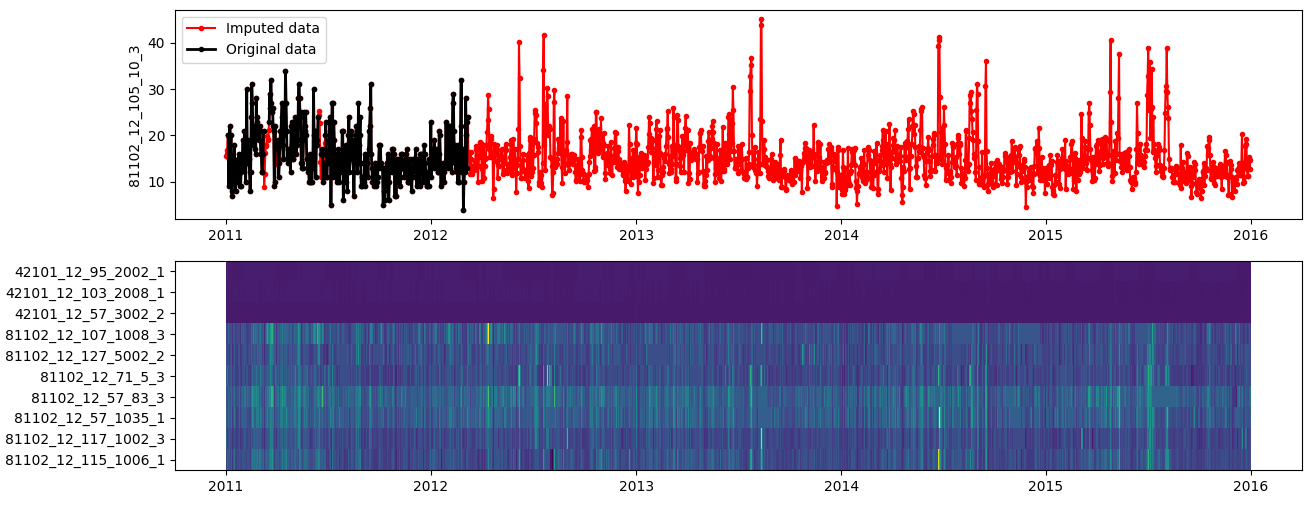
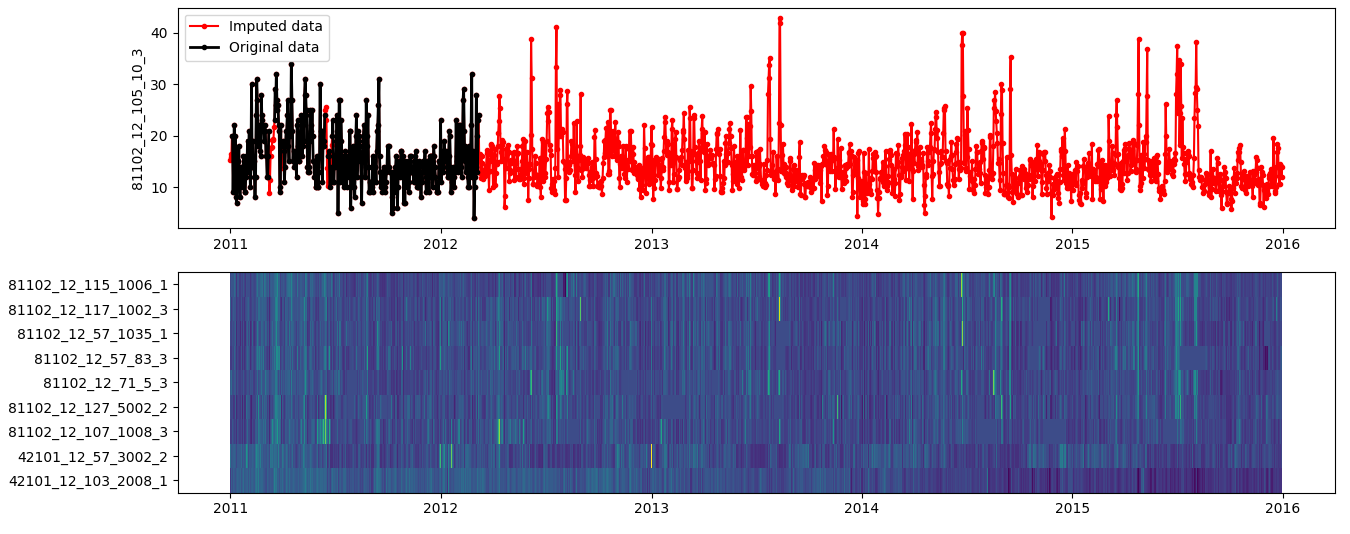
normalize station data

Changed region(s): [[0.0, 0.503, 0.9977, 0.9763], [0.0935, 0.0, 0.9977, 0.4734], [0.6859, 0.0592, 0.7171, 0.1479]]

diff --git a/AQ_ML.py b/AQ_ML.py
@@ -15,8 +15,12 @@ R_earth =  6371.0 # [km]
 def matshow_dates(df,ax):
     import matplotlib.dates as mdates
     xlims = [mdates.date2num(pd.to_datetime(df.index[x])) for x in[0,-1]]
+    #from sklearn.preprocessing import scale
+    #ax.matshow(scale(df.copy().transpose(),axis=1),aspect='auto',extent=[xlims[0],xlims[1],len(df.columns),0],origin='upper')
     ax.matshow(df.copy().transpose(),aspect='auto',extent=[xlims[0],xlims[1],len(df.columns),0],origin='upper')
+    #tick_labels = ['Predictor '+str(i) for i in range(len(df.columns))]
     ax.set_yticklabels(df.columns.values)
+    #ax.set_yticklabels(tick_labels)
     ax.set_yticks([x+0.5 for x in range(0,len(df.columns.values))])
     ax.xaxis.tick_bottom()
     ax.xaxis_date()
@@ -77,6 +81,11 @@ class aq_station:
             self.this_station = pd.Series()
             print('No data for this station!')
         self.nearby_data_df = self.nearby_data_df.drop(self.station_id, axis=1) # get rid of the closest data: this is the target data, not used in training
+        nearby_yesterday = self.nearby_data_df.copy()
+        nearby_yesterday.index = nearby_yesterday.index + pd.Timedelta('1D')
+        nearby_yesterday = nearby_yesterday.reindex(index=self.nearby_data_df.index)
+        nearby_yesterday.columns = [x+'_y' for x in nearby_yesterday.columns]
+        #self.nearby_data_df = pd.concat([self.nearby_data_df,nearby_yesterday],axis=1)
         
         # get the data for the other stations
         self.other_stations = identify_nearby_stations(self.latlon,r_max,other_data,self.start_date,self.end_date)
@@ -86,6 +95,11 @@ class aq_station:
             print('   Removing stations with latitude '+str(self.ignoring[0]))
             self.other_stations = self.other_stations[self.other_stations['Latitude']!=self.ignoring[0]].copy()
         self.other_data_df = extract_nearby_values(self.other_stations,other_data,self.start_date,self.end_date)
+        other_yesterday = self.other_data_df.copy()
+        other_yesterday.index = other_yesterday.index + pd.Timedelta('1D')
+        other_yesterday = other_yesterday.reindex(index=self.other_data_df.index)
+        other_yesterday.columns = [x+'_y' for x in other_yesterday.columns]
+        #self.other_data_df = pd.concat([self.other_data_df,other_yesterday],axis=1)
         
     def plot_matrix_station(self):
         
@@ -93,6 +107,8 @@ class aq_station:
         import datetime as dt
                 
         fig = plt.figure(figsize=(12,6))
+        if self.gs.empty:
+            return fig
 
         ax1 = fig.add_subplot(211)
         
@@ -102,6 +118,7 @@ class aq_station:
         ax1.plot(self.composite_data,'.-',color='red',label='Imputed data')
         ax1.plot(self.this_station,'.-',lw=2,color='k',label='Original data')
         ax1.set_ylabel(self.this_station.name)
+        #ax1.set_ylabel('Output station')
         ax1.legend()
         
         plt.show()
@@ -119,7 +136,7 @@ class aq_station:
             self.model = None
             return
             
-        # fill missing predictors
+        # fill missing predictors and normalize the inputs
         self.gs = fill_missing_predictors(self.gs)
         
         # create a model
@@ -318,7 +335,7 @@ def feature_selection(df,this_station,stations_to_keep=None):
     
     # choose how many stations to keep based on how many samples there will be to train on
     if stations_to_keep is None:
-        stations_to_keep = min(15,max(1,int(len(this_station.index[pd.notnull(this_station)])/8)))
+        stations_to_keep = min(15,max(1,int(len(this_station.index[pd.notnull(this_station)])/12)))
     
     corr_vals = pd.Series(index=good_stations.columns)
     for station in corr_vals.index:
@@ -341,9 +358,13 @@ def fill_missing_predictors(predictors):
         
     import sklearn.preprocessing
     imp = sklearn.preprocessing.Imputer(missing_values='NaN', strategy='mean', axis=0) # impute along columns
-    predictors_filled = imp.fit_transform(predictors).copy()
+    predictors_filled = imp.fit_transform(predictors.copy())
     predictors_filled_df = pd.DataFrame(index=predictors.index,columns=predictors.columns,data=predictors_filled)
-        
+    
+    
+    from scipy.stats import zscore
+    predictors_filled_df = predictors_filled_df.apply(zscore)
+
     return predictors_filled_df
     
 # based on which values for the site are available, split up predictors/known
@@ -367,7 +388,9 @@ def create_model_for_site(predictors,site):
     
     from sklearn.metrics import r2_score
     
+    
     print('Creating a model for '+str(site.name))
+    
     
     # split into known/unknown datapoints
     known_x,known_y,unknown_x = split_known_unknown_rows(predictors,site)
@@ -401,8 +424,8 @@ def create_model_for_site(predictors,site):
     # neural network
     import sklearn.neural_network
     #HL1_size = int(len(predictors.columns)*)
-    hl_size = (max(1,int(len(predictors.columns)*0.5))) # should probably depend on training data shape
-    model = sklearn.neural_network.MLPRegressor(solver='lbfgs',alpha=1e-5,hidden_layer_sizes=(hl_size),activation='relu')
+    hl_size = (max(1,int(len(predictors.columns)*.5))) # should probably depend on training data shape
+    model = sklearn.neural_network.MLPRegressor(solver='lbfgs',alpha=1e-5,hidden_layer_sizes=(hl_size),activation='tanh')
     
     '''
     # SVM
@@ -447,7 +470,7 @@ def create_model_for_site(predictors,site):
     ax1.plot([0, np.max(known_y)],[0, np.max(known_y)],color='k')
     ax1.set_xlabel('Target')
     ax1.set_ylabel('Predicted')
-    ax1.set_title('Machine Learning')
+    ax1.set_title('Machine Learning, r2 = '+str(r2_ML_test))
     ax1.legend(loc=4)
     
     ax2 = fig.add_subplot(122)
@@ -456,7 +479,7 @@ def create_model_for_site(predictors,site):
     ax2.plot([0, np.max(known_y)],[0, np.max(known_y)],color='k')
     ax2.set_xlabel('Target')
     ax2.set_ylabel('Predicted')
-    ax2.set_title('Linear Model')
+    ax2.set_title('Linear Model, r2 = '+str(r2_lin_test))
     ax2.legend(loc=4)
     
     #plt.title(str(r2_ML_test)+', '+str(r2_ML_train))
@@ -478,6 +501,8 @@ def fill_with_model(predictors,site,model):
     # split known/unknown, simulate
     known_x,known_y,unknown_x = split_known_unknown_rows(predictors,site)    
     predicted_y = model.predict(unknown_x)
+    
+    
         
     # replace missing with the simulated, returning the composite
     composite_series = site.copy() # start with site data

diff --git a/aq_pipeline.py b/aq_pipeline.py
@@ -18,7 +18,7 @@ import numpy as np
 start_date = '2011-01-01'
 end_date = '2015-12-31'
 
-latlon = (	39.838119,	-104.949840)
+latlon = (28.028889,-81.972222)
 r_max_interp = 250 # how far from latlon of interest should it look for stations?
 r_max_ML = 250 # for each station it finds, how far should it look aroud it in imputing the missing values?
 
@@ -26,14 +26,14 @@ r_max_ML = 250 # for each station it finds, how far should it look aroud it in i
 
 # get the raw daa
 
-all_data = aq.extract_raw_data(start_date,end_date)
+all_data = aq.extract_raw_data(start_date,end_date,param_code=81102)
 
 pm25_data = aq.extract_raw_data(start_date,end_date,param_code=88101)
-#ozone_data = aq.extract_raw_data(start_date,end_date,param_code=44201)
+ozone_data = aq.extract_raw_data(start_date,end_date,param_code=44201)
 CO_data = aq.extract_raw_data(start_date,end_date,param_code=42101)
 other_data = pd.concat([pm25_data,CO_data])
 #other_data = pd.concat([pm25_data])
-other_data = other_data.set_index(pd.Series(data=range(len(other_data))))
+other_data = other_data.set_index(pd.Series(data=range(len(other_data)))) # reindex to get rid of duplicate indices (index here is not significant)
 
 # filter out stations that are definitley too far away to be of any use.
 # we know nothing farther than r_max_interp+r_max_ML will be used.
@@ -55,9 +55,10 @@ compare_df['predicted'] = data
 compare_df['predicted_noML'] = results_noML
 compare_df['target'] = target_data
 compare_df_all = compare_df.copy()
-# only keep rows for which there is target data to compare against; fill missing predicted values with 0?
+# only keep rows for which there is target data to compare against
 compare_df = compare_df[np.isfinite(compare_df['target'])]
-compare_df = compare_df.fillna(0) # think more about this
+#compare_df = compare_df.fillna(0) # think more about this
+compare_df = compare_df.fillna(method='ffill')
 
 ## Compute/print some metrics
 
@@ -103,8 +104,8 @@ print(mae_roll,mae_roll_noML)
 # plot the results against target data
 fig = plt.figure(figsize=(12,6))
 ax1 = fig.add_subplot(211)
-ax1.plot(results_noML,'.-',color='gray',label='predicted, no ML')
-ax1.plot(data,'.-',color='k',label='predicted')
+ax1.plot(results_noML,'.-',color='gray',label='predicted, without imputation')
+ax1.plot(data,'.-',color='k',label='predicted, with imputation')
 ax1.plot(target_data,'.-',color='green',label='target')
 ax1.legend()
 ax1.set_title('Instantaneous')
@@ -112,8 +113,8 @@ plt.show()
 
 # plot the results against target data
 ax2 = fig.add_subplot(212,sharex=ax1,sharey=ax1)
-ax2.plot(results_noML.rolling(window=win,min_periods=0).mean(),'.-',color='gray',label='predicted, no ML')
-ax2.plot(data.rolling(window=win,min_periods=0).mean(),'.-',color='k',label='predicted')
+ax2.plot(results_noML.rolling(window=win,min_periods=0).mean(),'.-',color='gray',label='predicted, without imputation')
+ax2.plot(data.rolling(window=win,min_periods=0).mean(),'.-',color='k',label='predicted, with imputation')
 ax2.plot(target_data.rolling(window=win,min_periods=0).mean(),'.-',color='green',label='target')
 ax2.set_title('Rolling')
 ax2.legend()
